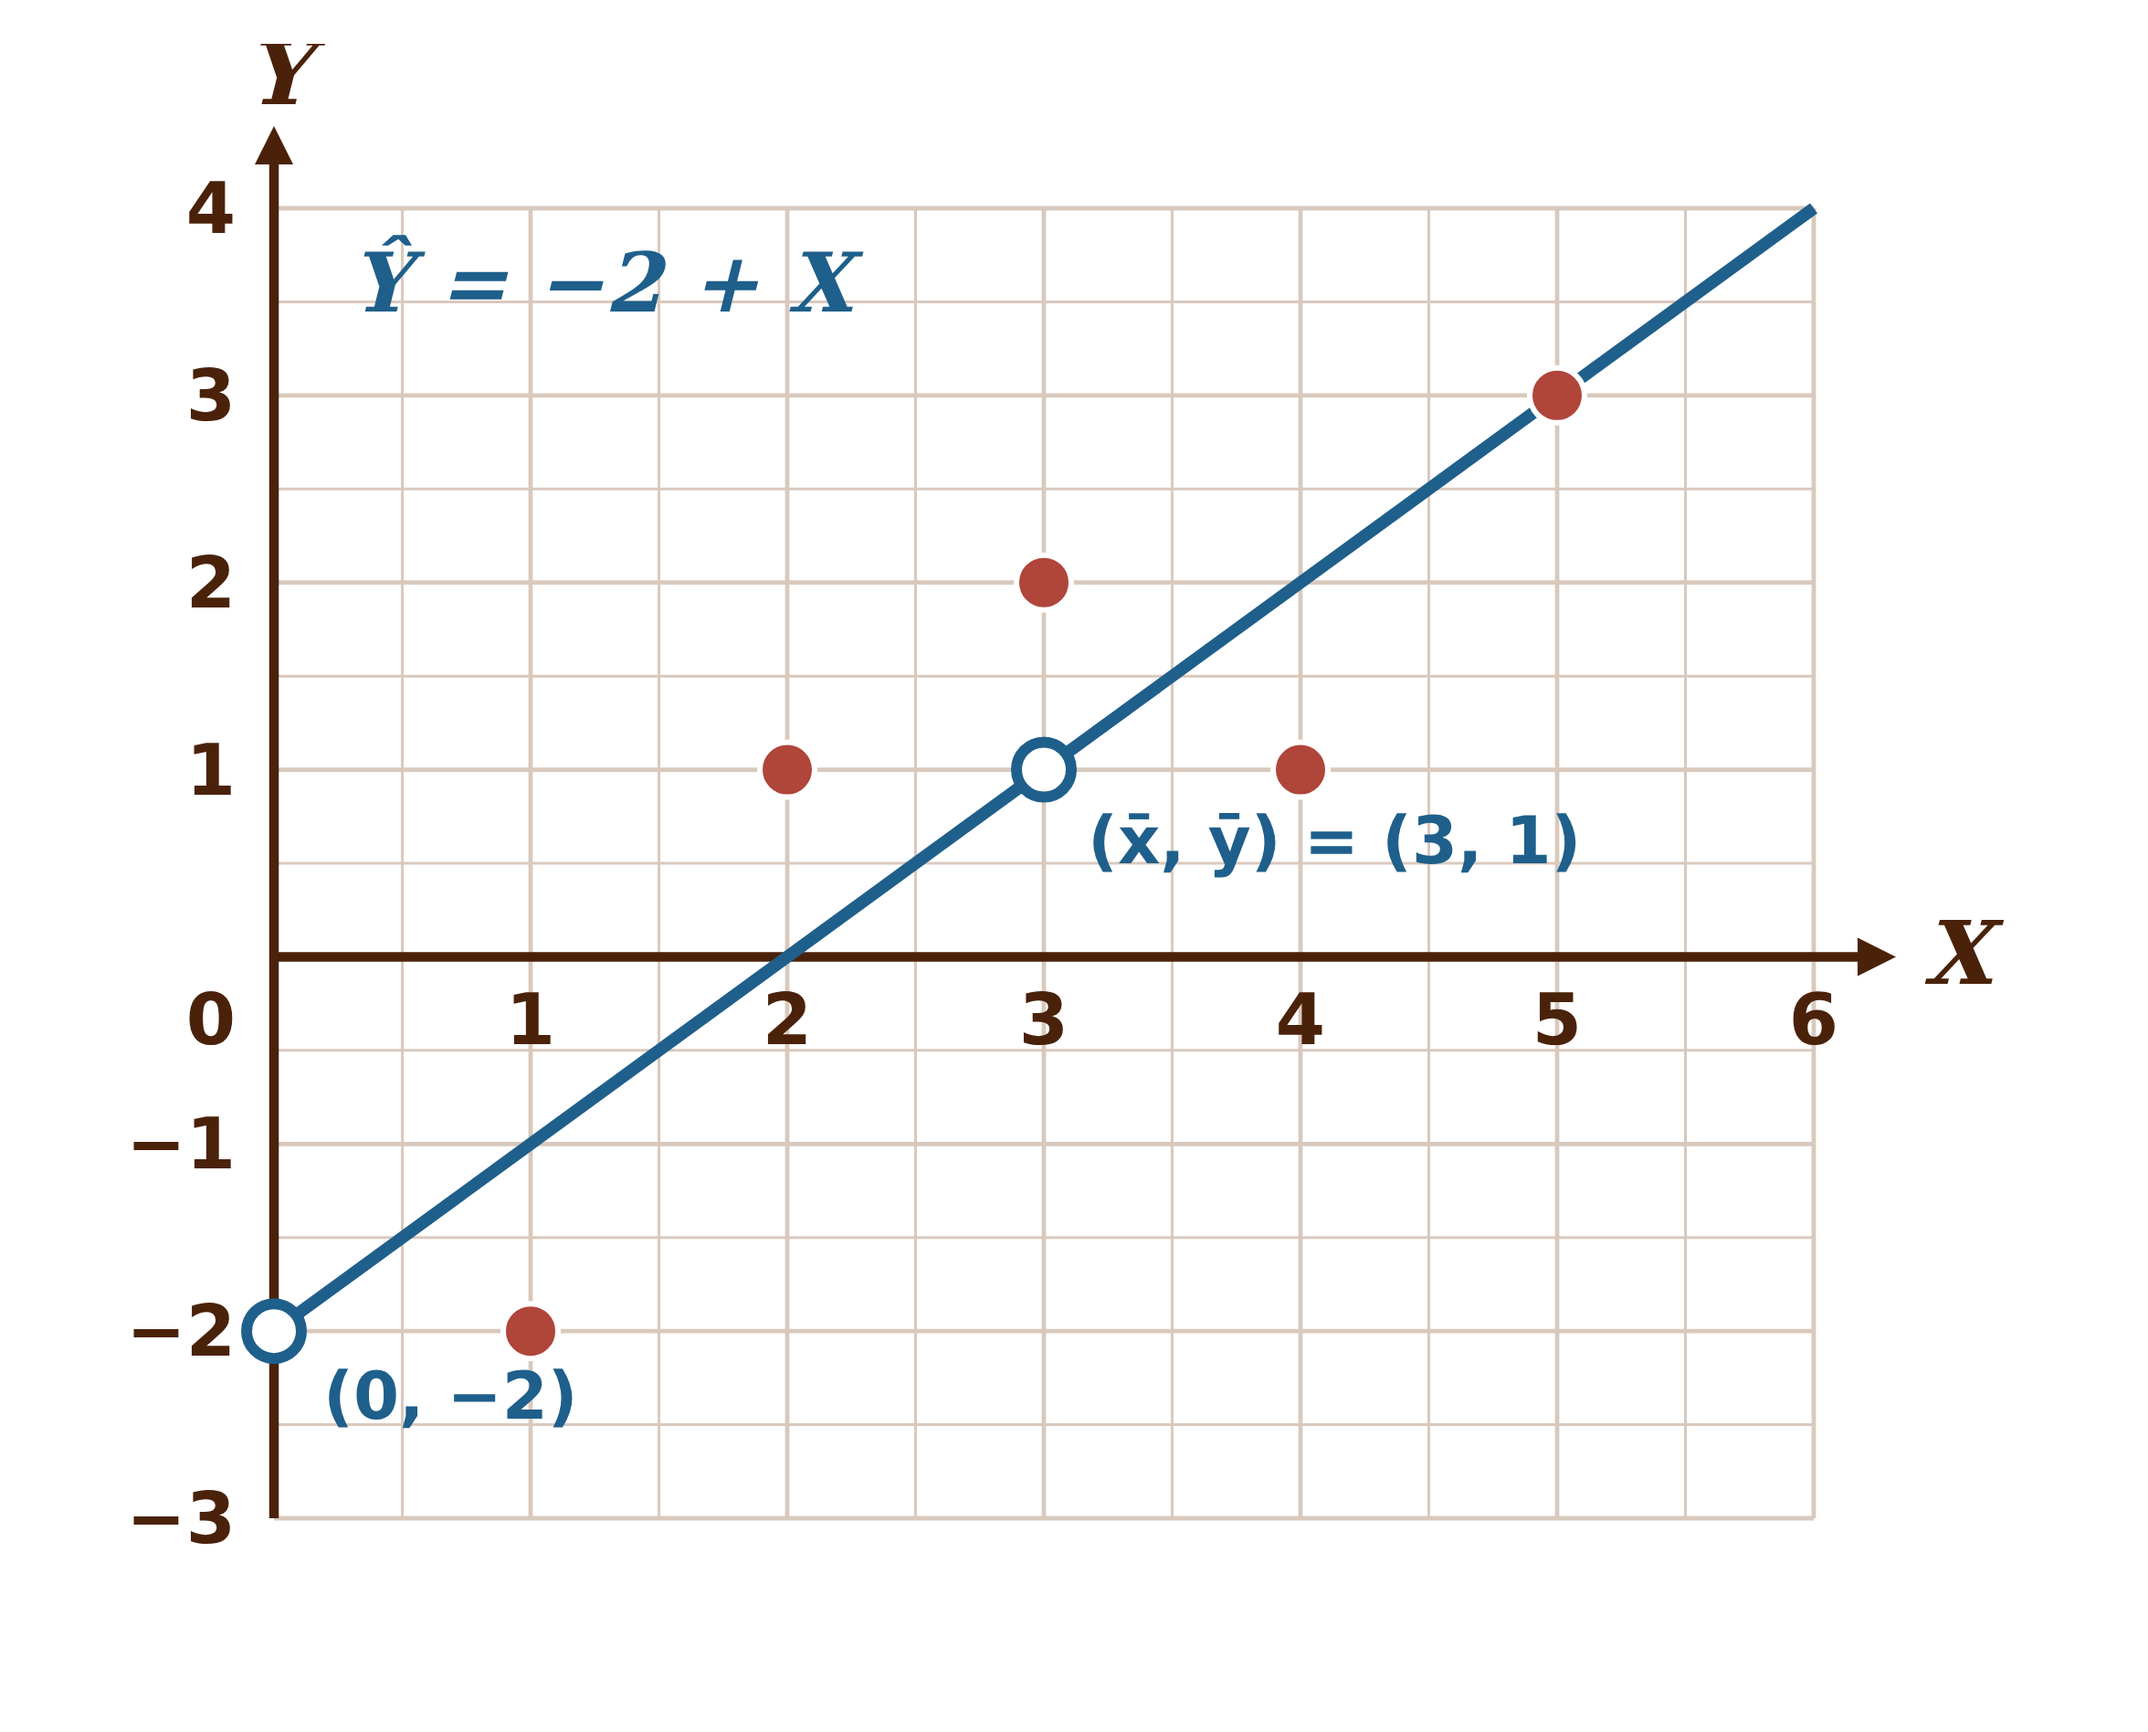
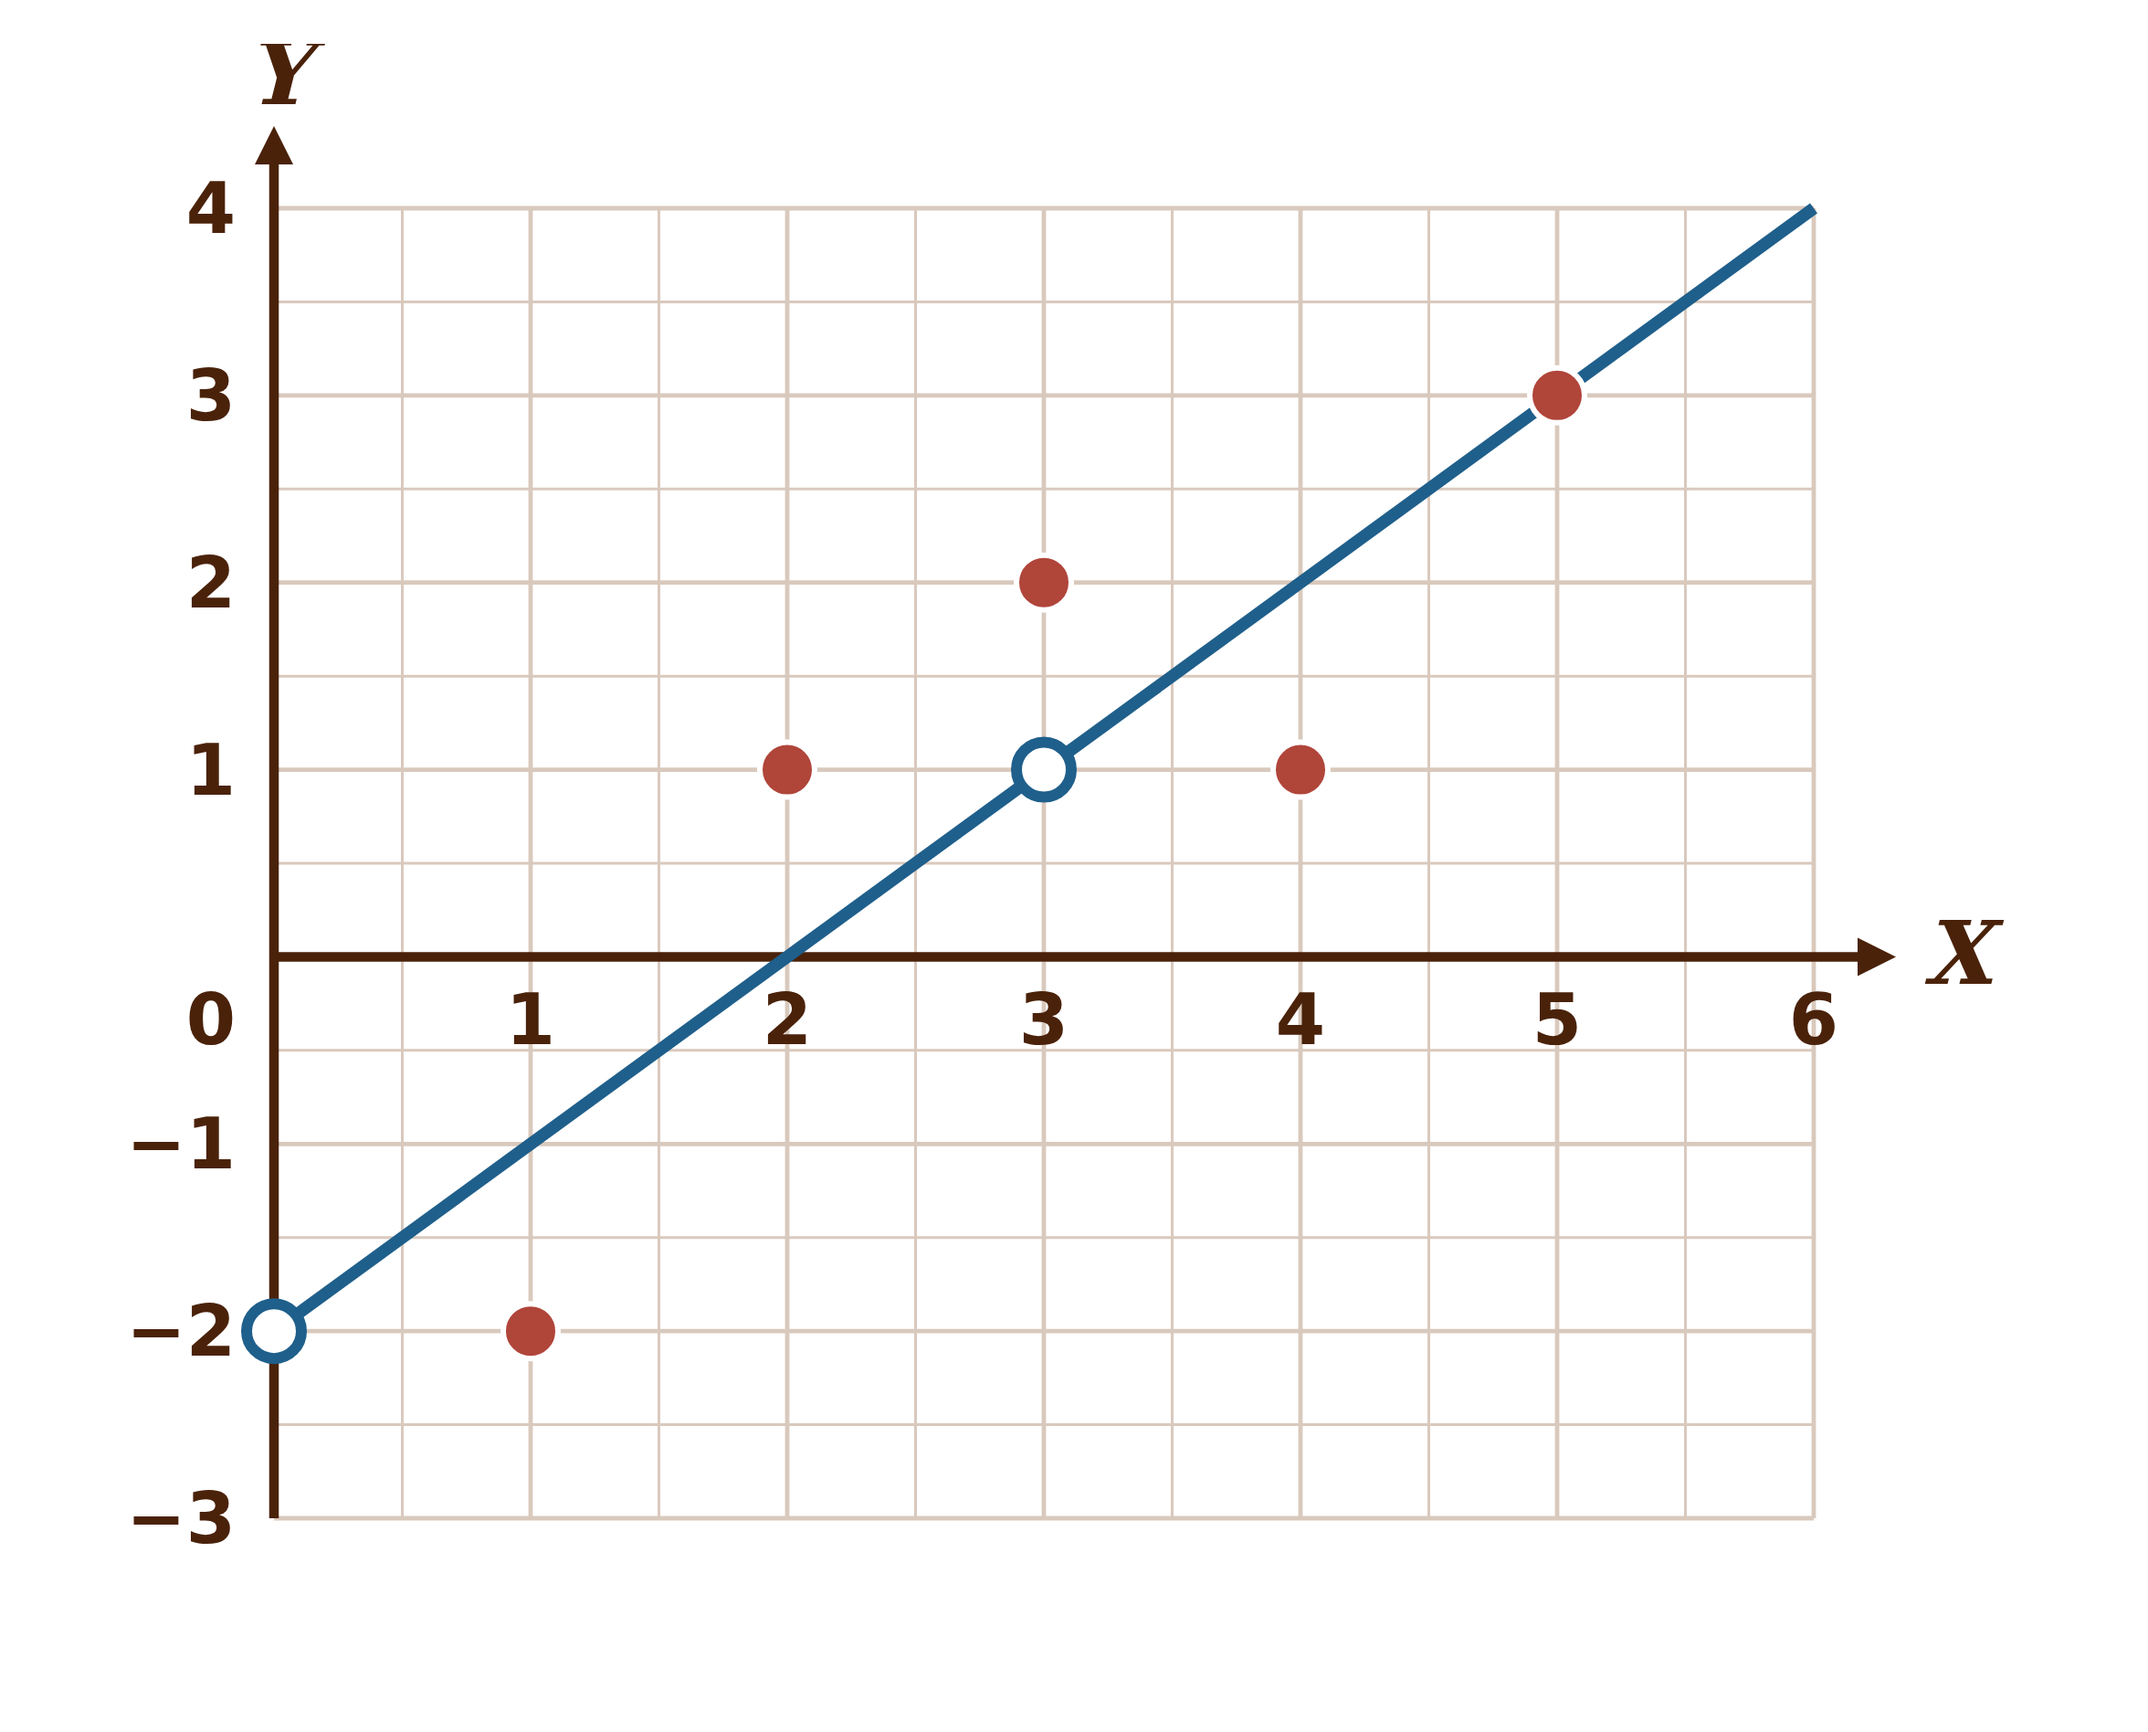
Stats 4.3.1: drop redundant labels from regression chart
Claude-Session: https://claude.ai/code/session_01P2W4DViX2DDJL3Qd7qfdx4

diff --git a/tools/statistics/t431.js b/tools/statistics/t431.js
@@ -36,8 +36,7 @@ function grid(pts,line){
  g+=`<text x="${xs(X1)+40}" y="${ys(0)+10}" class="ax">X</text><text x="${xs(0)-10}" y="${ys(Y1)-38}" class="ax">Y</text>`;
  if(line){g+=`<line x1="${xs(0)}" y1="${ys(a)}" x2="${xs(6)}" y2="${ys(a+6*b)}" stroke="${LN}" stroke-width="4.5"/>`;
   g+=`<circle cx="${xs(xb)}" cy="${ys(yb)}" r="10" fill="#fff" stroke="${LN}" stroke-width="4"/><circle cx="${xs(0)}" cy="${ys(a)}" r="10" fill="#fff" stroke="${LN}" stroke-width="4"/>`;
-  g+=`<text x="${xs(xb)+16}" y="${ys(yb)+34}" class="lb">(x̄, ȳ) = (3, 1)</text><text x="${xs(0)+18}" y="${ys(a)+32}" class="lb">(0, −2)</text>`;
-  g+=`<text x="${xs(0.3)}" y="${ys(3.45)}" class="lq">Ŷ = −2 + X</text>`;}
+  }
  if(pts) X.forEach((x,i)=>{g+=`<circle cx="${xs(x)}" cy="${ys(Y[i])}" r="10" fill="${PT}" stroke="#fff" stroke-width="2"/>`;});
  return `<svg width="${W+40}" height="${H}" viewBox="0 0 ${W+40} ${H}">${g}</svg>`;}
 const box=v=>`\\fcolorbox{${BOX}}{transparent}{$\\;${v}\\;$}`;

diff --git a/CLAUDE.md b/CLAUDE.md
@@ -52,7 +52,7 @@
   - إجابة «حدد نوع الارتباط وقيّم قوته» كاملة داخل المربع (مثل «ارتباط خطي طردي قوي») — طلب المستخدم 2026-10-19.
   - عناوين الخطوات داخل الحل (1) 2) 3)) بلون برتقالي غامق #9a3412 — البرتقالي الفاتح #ea580c «غريب» (طلب المستخدم 2026-10-19).
   - حل سبيرمان بثلاث خطوات مثل ملف القسم: (1) جدول الترتيب التصاعدي والرتب الأولية، (2) جدول الرتب X, Y, Rx, Ry, d, d² مع كتابة متوسط الرتب المكررة داخل الخلية مثل (3 + 4)/2 = 3.5، (3) التعويض في القانون. **(2026-10-25، طلب المستخدم) صفوف جدول الرتب (الخطوة 2) مرتبة تصاعديًا حسب X** (ضعيف ← متوسط ← جيد جدًا ← ممتاز، أو 2، 3، 5…) مو بترتيب البيانات الأصلي — أسهل في الشرح. والمكرر يبقى بترتيبه الأصلي بين بعض.
-  - صور الملزمة (كانفا): شفافة بالبني الغامق #4a220a، والقانون بالصيغة المختصرة (Σ بدون حدود)، والحل: القانون = التعويض = الناتج في سطر أفقي واحد. سبيرمان الدقيق يُكتب rs = r(Rx, Ry) = التعويض (مثل الكتاب). السكربتات `tools/statistics/` (t413، t414، ex_spearman1، ex_spearman_exact، formula_*؛ قوانين الانحدار `formula_regression.js` ← `store/statistics/teaching/قوانين الانحدار/`؛ تدريب 4.3.1 بدون حل/مع الحل `t431.js` ← `store/statistics/teaching/تدريب 4.3.1/` — (طلب المستخدم، عشان المساحة) **3 أسئلة بس:** (1) احسب r ثم حدد نوع الارتباط وقيّم قوته، (2) مثّل البيانات على لوحة الانتشار ثم أوجد معادلة مستقيم انحدار Y على X وارسمه عليها، (3) قدّر ŷ عند x = 1.5. و**سؤال معامل التحديد انشال** (المستخدم بيحطه في الدرس اللي بعده). حل السؤال 1 كامل: جدول الحسابات + القانون = التعويض = 0.84 + «ارتباط خطي طردي قوي» (جربنا ناتج + ملحوظة بدل الجدول، والمستخدم رجع للحل الكامل). صورتين: «بدون حل» = المقدمة + الجدول + الأسئلة تحت بعض بدون مسافات ولا لوحة فاضية، و«مع الحل» = طولي، كل سؤال وحله.
+  - صور الملزمة (كانفا): شفافة بالبني الغامق #4a220a، والقانون بالصيغة المختصرة (Σ بدون حدود)، والحل: القانون = التعويض = الناتج في سطر أفقي واحد. سبيرمان الدقيق يُكتب rs = r(Rx, Ry) = التعويض (مثل الكتاب). السكربتات `tools/statistics/` (t413، t414، ex_spearman1، ex_spearman_exact، formula_*؛ قوانين الانحدار `formula_regression.js` ← `store/statistics/teaching/قوانين الانحدار/`؛ تدريب 4.3.1 بدون حل/مع الحل `t431.js` ← `store/statistics/teaching/تدريب 4.3.1/` — (طلب المستخدم، عشان المساحة) **3 أسئلة بس:** (1) احسب r ثم حدد نوع الارتباط وقيّم قوته، (2) مثّل البيانات على لوحة الانتشار ثم أوجد معادلة مستقيم انحدار Y على X وارسمه عليها، (3) قدّر ŷ عند x = 1.5. و**سؤال معامل التحديد انشال** (المستخدم بيحطه في الدرس اللي بعده). حل السؤال 1 كامل: جدول الحسابات + القانون = التعويض = 0.84 + «ارتباط خطي طردي قوي» (جربنا ناتج + ملحوظة بدل الجدول، والمستخدم رجع للحل الكامل). **لوحة الانتشار في الحل بدون كتابات على الرسمة** (طلب المستخدم: «أرقام كثير… ما لها داعي»): بس أرقام المحاور + النقاط + الخط، والنقطتين اللي انرسم منها الخط دوائر فاضية بلون الخط — بدون تسمية النقاط ولا معادلة فوق الخط (مكتوبة فوق الرسمة أصلاً). صورتين: «بدون حل» = المقدمة + الجدول + الأسئلة تحت بعض بدون مسافات ولا لوحة فاضية، و«مع الحل» = طولي، كل سؤال وحله.
   - المستخدم يبي الحسابات بجدول (بيرسون: x, y, xy, x², y² ومجاميعها؛ سبيرمان: X, Y, Rx, Ry, d, d²).
   - القيم الوسيطة اللي القطع يغيّر نتيجتها (مثل الميل b) تُكتب بأربع منازل (مثلاً 0.0961).
 - أكمل الفراغ: الإجابة فقط بدون مربع (مثل صح/خطأ).
